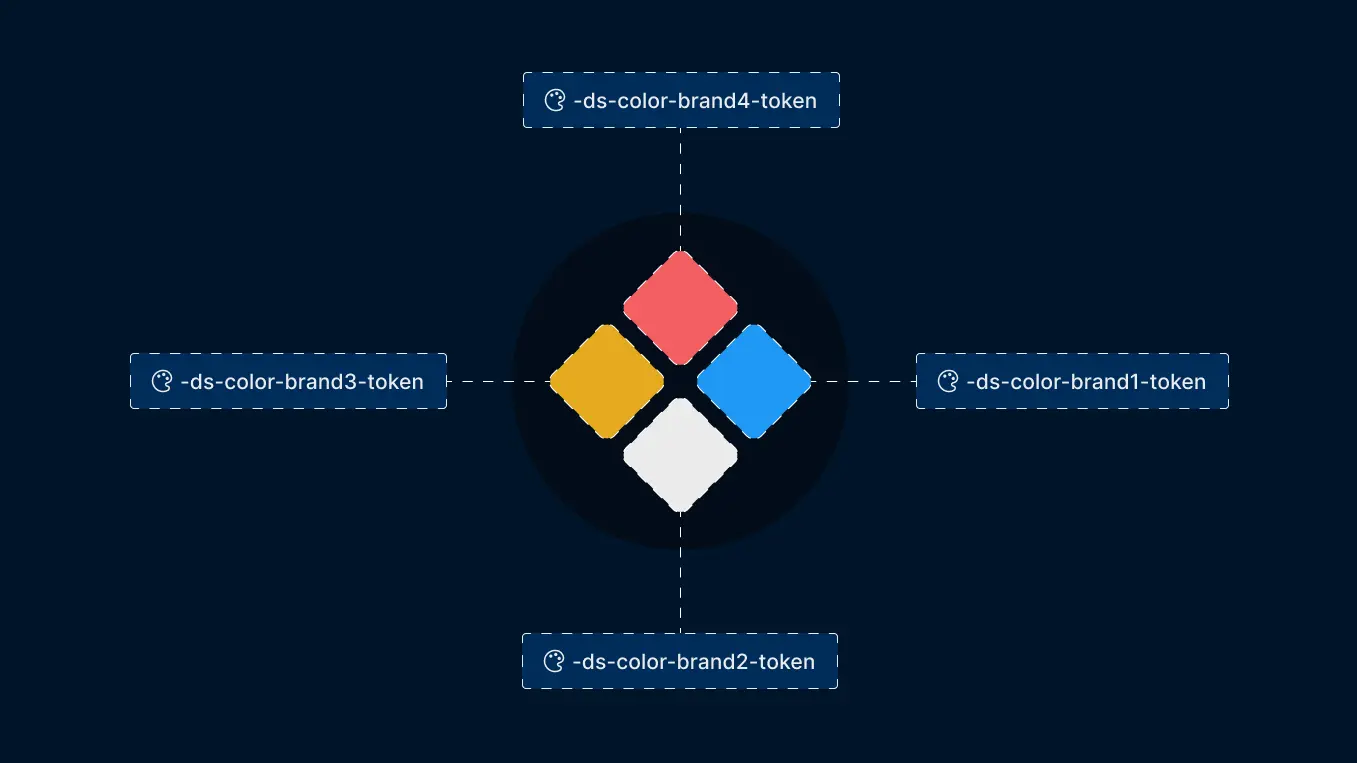
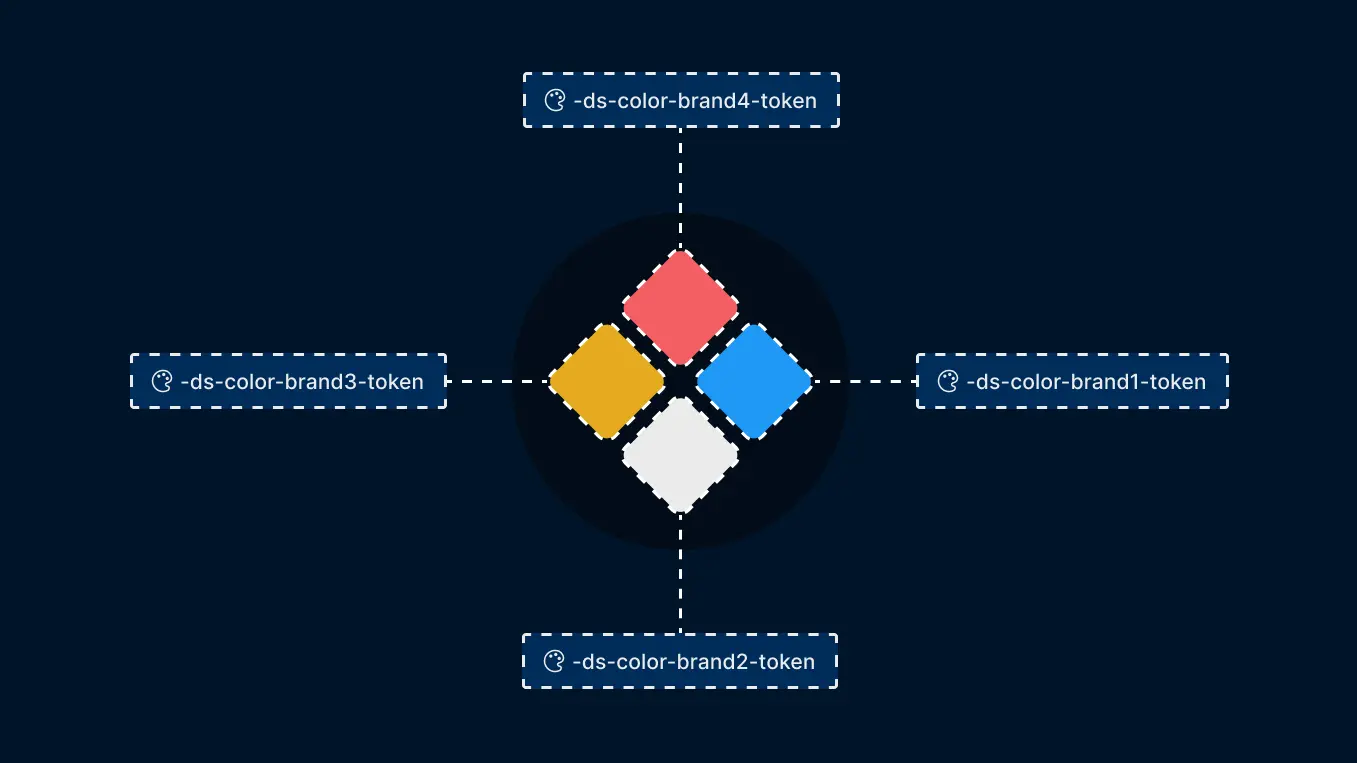
Added example for using data-color

diff --git a/apps/www/app/content/blog/no/colorsvg.stories.tsx b/apps/www/app/content/blog/no/colorsvg.stories.tsx
@@ -1,3 +1,4 @@
+import { Card } from '@digdir/designsystemet-react';
 export const WithCurrentColor = () => {
   return (
     <svg
@@ -15,6 +16,55 @@ export const WithCurrentColor = () => {
         d='M6.29369 2.47455C7.27231 1.63573 8.70223 1.58915 9.73337 2.3625L10.0841 2.62552C11.3043 2.08754 12.6955 2.08754 13.9157 2.62552L14.1622 2.44065C15.257 1.61953 16.7891 1.72841 17.7568 2.69611L17.8996 2.83897C19.0388 3.97817 18.9524 5.83446 17.7499 6.86725V7.26383C17.7499 8.4908 17.3748 9.66074 16.7092 10.6368L16.9037 10.5287C17.9442 9.95065 19.2556 10.3018 19.8679 11.3224C20.5099 12.3923 20.1379 13.7812 19.0473 14.3871L18.3705 14.7631C18.7948 14.8976 19.1941 15.1332 19.5306 15.4697C20.6519 16.591 20.6519 18.409 19.5306 19.5303L18.5306 20.5303C17.4092 21.6516 15.5912 21.6516 14.4699 20.5303C14.3822 20.4427 14.3014 20.3507 14.2275 20.2552C13.5509 20.5726 12.7955 20.75 12 20.75C11.2046 20.75 10.4494 20.5727 9.77287 20.2554C9.69894 20.3508 9.61817 20.4427 9.53056 20.5303C8.40924 21.6516 6.59122 21.6516 5.4699 20.5303L4.4699 19.5303C3.34857 18.409 3.34858 16.591 4.4699 15.4697C4.80626 15.1333 5.2053 14.8978 5.62942 14.7633L4.95231 14.3871C3.86165 13.7812 3.48975 12.3923 4.13166 11.3224C4.74403 10.3018 6.05543 9.95065 7.09589 10.5287L7.29074 10.6369C6.62505 9.66087 6.24989 8.49087 6.24989 7.26383V6.90686C4.86826 5.86881 4.76888 3.78153 6.11862 2.62461L6.29369 2.47455ZM15.5306 17.5303L16.5306 16.5303C17.0661 15.9948 17.9344 15.9948 18.4699 16.5303C19.0054 17.0658 19.0054 17.9341 18.4699 18.4697L17.4699 19.4697C16.9344 20.0052 16.0661 20.0052 15.5306 19.4697C15.0438 18.9829 14.9995 18.2212 15.3976 17.6844C15.4375 17.6306 15.4818 17.5791 15.5306 17.5303ZM15.7203 15.025C15.7289 15.0929 15.7356 15.1615 15.7405 15.2307C15.6583 15.2946 15.5788 15.3636 15.5024 15.4377L15.4867 15.453L15.4699 15.4697L14.4699 16.4697C14.3303 16.6093 14.2081 16.7597 14.1033 16.9181C13.7167 17.5026 13.5664 18.1973 13.6524 18.8675C13.1543 19.1124 12.5939 19.25 12 19.25C11.4063 19.25 10.846 19.1125 10.348 18.8677C10.4438 18.1223 10.2471 17.3465 9.7582 16.7258C9.68831 16.6371 9.61243 16.5515 9.53056 16.4697L8.53056 15.4697C8.44414 15.3832 8.35357 15.3035 8.25951 15.2304C8.2644 15.1613 8.27115 15.0929 8.27971 15.0251C8.32499 14.6661 8.10752 14.326 7.76269 14.2164C7.71876 14.2025 7.67509 14.1838 7.6322 14.16L5.68078 13.0759C5.33141 12.8818 5.21228 12.4369 5.4179 12.0942C5.61406 11.7672 6.03413 11.6548 6.36742 11.8399L8.31884 12.924C8.33846 12.9349 8.3572 12.9465 8.37509 12.9587C8.6744 13.1626 9.07666 13.1235 9.33108 12.8657C9.51476 12.6797 9.71766 12.5127 9.93647 12.3682C10.151 12.2265 10.278 11.9847 10.273 11.7277C10.2679 11.4706 10.1315 11.234 9.91156 11.1008C8.57722 10.293 7.74989 8.84116 7.74989 7.26383V6.4999C7.74989 6.23645 7.61167 5.99232 7.38576 5.85678L7.26518 5.78443C6.53357 5.34546 6.44701 4.31875 7.09481 3.76349L7.26988 3.61343C7.7147 3.23215 8.36467 3.21098 8.83337 3.56251L9.54989 4.0999C9.77715 4.27035 10.0812 4.29776 10.3353 4.17072L10.5464 4.06515C11.4614 3.60766 12.5384 3.60766 13.4533 4.06515L13.6645 4.17072C13.9186 4.29776 14.2226 4.27035 14.4499 4.0999L15.0622 3.64065C15.5599 3.26742 16.2562 3.3169 16.6961 3.75677L16.839 3.89963C17.3768 4.43751 17.3136 5.3271 16.7051 5.78351L16.5499 5.8999C16.361 6.04154 16.2499 6.26383 16.2499 6.4999V7.26383C16.2499 8.84112 15.4226 10.2929 14.0883 11.1008C13.8684 11.2339 13.732 11.4705 13.7269 11.7276C13.7219 11.9847 13.8489 12.2264 14.0634 12.3682C14.2822 12.5127 14.4851 12.6795 14.6688 12.8656C14.9232 13.1233 15.3253 13.1624 15.6246 12.9586C15.6425 12.9465 15.6612 12.9349 15.6808 12.924L17.6322 11.8399C17.9655 11.6548 18.3855 11.7672 18.5817 12.0942C18.7873 12.4369 18.6682 12.8818 18.3188 13.0758L16.3674 14.16C16.3246 14.1838 16.281 14.2024 16.2371 14.2163C15.8924 14.326 15.675 14.666 15.7203 15.025ZM5.53056 16.5303C6.06609 15.9948 6.93436 15.9948 7.4699 16.5303L8.4699 17.5303C8.53934 17.5998 8.59982 17.6748 8.65129 17.7541C8.99643 18.2855 8.93596 19.0036 8.4699 19.4697C7.93436 20.0052 7.06609 20.0052 6.53056 19.4697L5.53056 18.4697C4.99502 17.9341 4.99502 17.0658 5.53056 16.5303ZM10.5 6.75C10.0858 6.75 9.75 7.08579 9.75 7.5C9.75 7.91421 10.0858 8.25 10.5 8.25H10.51C10.9242 8.25 11.26 7.91421 11.26 7.5C11.26 7.08579 10.9242 6.75 10.51 6.75H10.5ZM10.9697 8.96967C11.2527 8.68668 11.7055 8.67711 12 8.94096C12.2945 8.67711 12.7473 8.68668 13.0303 8.96967C13.3232 9.26256 13.3232 9.73744 13.0303 10.0303L12.5303 10.5303C12.2374 10.8232 11.7626 10.8232 11.4697 10.5303L10.9697 10.0303C10.6768 9.73744 10.6768 9.26256 10.9697 8.96967ZM12.75 7.5C12.75 7.08579 13.0858 6.75 13.5 6.75H13.51C13.9242 6.75 14.26 7.08579 14.26 7.5C14.26 7.91421 13.9242 8.25 13.51 8.25H13.5C13.0858 8.25 12.75 7.91421 12.75 7.5Z'
       />
     </svg>
+  );
+};
+
+export const WithDataColor = () => {
+  return (
+    <div>
+      <Card
+        data-color='success'
+        data-color-scheme='dark'>
+        <Card.Block>
+        <svg
+          width='64'
+          height='64'
+          viewBox='0 0 24 24'
+          fill='none'
+          xmlns='http://www.w3.org/2000/svg'
+          aria-hidden='true'
+        >
+          <path
+            fill='var(--ds-color-base-default)'
+            fill-rule='evenodd'
+            clip-rule='evenodd'
+            d='M6.29369 2.47455C7.27231 1.63573 8.70223 1.58915 9.73337 2.3625L10.0841 2.62552C11.3043 2.08754 12.6955 2.08754 13.9157 2.62552L14.1622 2.44065C15.257 1.61953 16.7891 1.72841 17.7568 2.69611L17.8996 2.83897C19.0388 3.97817 18.9524 5.83446 17.7499 6.86725V7.26383C17.7499 8.4908 17.3748 9.66074 16.7092 10.6368L16.9037 10.5287C17.9442 9.95065 19.2556 10.3018 19.8679 11.3224C20.5099 12.3923 20.1379 13.7812 19.0473 14.3871L18.3705 14.7631C18.7948 14.8976 19.1941 15.1332 19.5306 15.4697C20.6519 16.591 20.6519 18.409 19.5306 19.5303L18.5306 20.5303C17.4092 21.6516 15.5912 21.6516 14.4699 20.5303C14.3822 20.4427 14.3014 20.3507 14.2275 20.2552C13.5509 20.5726 12.7955 20.75 12 20.75C11.2046 20.75 10.4494 20.5727 9.77287 20.2554C9.69894 20.3508 9.61817 20.4427 9.53056 20.5303C8.40924 21.6516 6.59122 21.6516 5.4699 20.5303L4.4699 19.5303C3.34857 18.409 3.34858 16.591 4.4699 15.4697C4.80626 15.1333 5.2053 14.8978 5.62942 14.7633L4.95231 14.3871C3.86165 13.7812 3.48975 12.3923 4.13166 11.3224C4.74403 10.3018 6.05543 9.95065 7.09589 10.5287L7.29074 10.6369C6.62505 9.66087 6.24989 8.49087 6.24989 7.26383V6.90686C4.86826 5.86881 4.76888 3.78153 6.11862 2.62461L6.29369 2.47455ZM15.5306 17.5303L16.5306 16.5303C17.0661 15.9948 17.9344 15.9948 18.4699 16.5303C19.0054 17.0658 19.0054 17.9341 18.4699 18.4697L17.4699 19.4697C16.9344 20.0052 16.0661 20.0052 15.5306 19.4697C15.0438 18.9829 14.9995 18.2212 15.3976 17.6844C15.4375 17.6306 15.4818 17.5791 15.5306 17.5303ZM15.7203 15.025C15.7289 15.0929 15.7356 15.1615 15.7405 15.2307C15.6583 15.2946 15.5788 15.3636 15.5024 15.4377L15.4867 15.453L15.4699 15.4697L14.4699 16.4697C14.3303 16.6093 14.2081 16.7597 14.1033 16.9181C13.7167 17.5026 13.5664 18.1973 13.6524 18.8675C13.1543 19.1124 12.5939 19.25 12 19.25C11.4063 19.25 10.846 19.1125 10.348 18.8677C10.4438 18.1223 10.2471 17.3465 9.7582 16.7258C9.68831 16.6371 9.61243 16.5515 9.53056 16.4697L8.53056 15.4697C8.44414 15.3832 8.35357 15.3035 8.25951 15.2304C8.2644 15.1613 8.27115 15.0929 8.27971 15.0251C8.32499 14.6661 8.10752 14.326 7.76269 14.2164C7.71876 14.2025 7.67509 14.1838 7.6322 14.16L5.68078 13.0759C5.33141 12.8818 5.21228 12.4369 5.4179 12.0942C5.61406 11.7672 6.03413 11.6548 6.36742 11.8399L8.31884 12.924C8.33846 12.9349 8.3572 12.9465 8.37509 12.9587C8.6744 13.1626 9.07666 13.1235 9.33108 12.8657C9.51476 12.6797 9.71766 12.5127 9.93647 12.3682C10.151 12.2265 10.278 11.9847 10.273 11.7277C10.2679 11.4706 10.1315 11.234 9.91156 11.1008C8.57722 10.293 7.74989 8.84116 7.74989 7.26383V6.4999C7.74989 6.23645 7.61167 5.99232 7.38576 5.85678L7.26518 5.78443C6.53357 5.34546 6.44701 4.31875 7.09481 3.76349L7.26988 3.61343C7.7147 3.23215 8.36467 3.21098 8.83337 3.56251L9.54989 4.0999C9.77715 4.27035 10.0812 4.29776 10.3353 4.17072L10.5464 4.06515C11.4614 3.60766 12.5384 3.60766 13.4533 4.06515L13.6645 4.17072C13.9186 4.29776 14.2226 4.27035 14.4499 4.0999L15.0622 3.64065C15.5599 3.26742 16.2562 3.3169 16.6961 3.75677L16.839 3.89963C17.3768 4.43751 17.3136 5.3271 16.7051 5.78351L16.5499 5.8999C16.361 6.04154 16.2499 6.26383 16.2499 6.4999V7.26383C16.2499 8.84112 15.4226 10.2929 14.0883 11.1008C13.8684 11.2339 13.732 11.4705 13.7269 11.7276C13.7219 11.9847 13.8489 12.2264 14.0634 12.3682C14.2822 12.5127 14.4851 12.6795 14.6688 12.8656C14.9232 13.1233 15.3253 13.1624 15.6246 12.9586C15.6425 12.9465 15.6612 12.9349 15.6808 12.924L17.6322 11.8399C17.9655 11.6548 18.3855 11.7672 18.5817 12.0942C18.7873 12.4369 18.6682 12.8818 18.3188 13.0758L16.3674 14.16C16.3246 14.1838 16.281 14.2024 16.2371 14.2163C15.8924 14.326 15.675 14.666 15.7203 15.025ZM5.53056 16.5303C6.06609 15.9948 6.93436 15.9948 7.4699 16.5303L8.4699 17.5303C8.53934 17.5998 8.59982 17.6748 8.65129 17.7541C8.99643 18.2855 8.93596 19.0036 8.4699 19.4697C7.93436 20.0052 7.06609 20.0052 6.53056 19.4697L5.53056 18.4697C4.99502 17.9341 4.99502 17.0658 5.53056 16.5303ZM10.5 6.75C10.0858 6.75 9.75 7.08579 9.75 7.5C9.75 7.91421 10.0858 8.25 10.5 8.25H10.51C10.9242 8.25 11.26 7.91421 11.26 7.5C11.26 7.08579 10.9242 6.75 10.51 6.75H10.5ZM10.9697 8.96967C11.2527 8.68668 11.7055 8.67711 12 8.94096C12.2945 8.67711 12.7473 8.68668 13.0303 8.96967C13.3232 9.26256 13.3232 9.73744 13.0303 10.0303L12.5303 10.5303C12.2374 10.8232 11.7626 10.8232 11.4697 10.5303L10.9697 10.0303C10.6768 9.73744 10.6768 9.26256 10.9697 8.96967ZM12.75 7.5C12.75 7.08579 13.0858 6.75 13.5 6.75H13.51C13.9242 6.75 14.26 7.08579 14.26 7.5C14.26 7.91421 13.9242 8.25 13.51 8.25H13.5C13.0858 8.25 12.75 7.91421 12.75 7.5Z'
+          />
+        </svg>
+        </Card.Block>
+      </Card>
+      <Card
+        data-color='warning'
+        data-color-scheme='light'>
+        <Card.Block>
+        <svg
+          width='64'
+          height='64'
+          viewBox='0 0 24 24'
+          fill='none'
+          xmlns='http://www.w3.org/2000/svg'
+          aria-hidden='true'
+        >
+          <path
+            fill='var(--ds-color-base-default)'
+            fill-rule='evenodd'
+            clip-rule='evenodd'
+            d='M6.29369 2.47455C7.27231 1.63573 8.70223 1.58915 9.73337 2.3625L10.0841 2.62552C11.3043 2.08754 12.6955 2.08754 13.9157 2.62552L14.1622 2.44065C15.257 1.61953 16.7891 1.72841 17.7568 2.69611L17.8996 2.83897C19.0388 3.97817 18.9524 5.83446 17.7499 6.86725V7.26383C17.7499 8.4908 17.3748 9.66074 16.7092 10.6368L16.9037 10.5287C17.9442 9.95065 19.2556 10.3018 19.8679 11.3224C20.5099 12.3923 20.1379 13.7812 19.0473 14.3871L18.3705 14.7631C18.7948 14.8976 19.1941 15.1332 19.5306 15.4697C20.6519 16.591 20.6519 18.409 19.5306 19.5303L18.5306 20.5303C17.4092 21.6516 15.5912 21.6516 14.4699 20.5303C14.3822 20.4427 14.3014 20.3507 14.2275 20.2552C13.5509 20.5726 12.7955 20.75 12 20.75C11.2046 20.75 10.4494 20.5727 9.77287 20.2554C9.69894 20.3508 9.61817 20.4427 9.53056 20.5303C8.40924 21.6516 6.59122 21.6516 5.4699 20.5303L4.4699 19.5303C3.34857 18.409 3.34858 16.591 4.4699 15.4697C4.80626 15.1333 5.2053 14.8978 5.62942 14.7633L4.95231 14.3871C3.86165 13.7812 3.48975 12.3923 4.13166 11.3224C4.74403 10.3018 6.05543 9.95065 7.09589 10.5287L7.29074 10.6369C6.62505 9.66087 6.24989 8.49087 6.24989 7.26383V6.90686C4.86826 5.86881 4.76888 3.78153 6.11862 2.62461L6.29369 2.47455ZM15.5306 17.5303L16.5306 16.5303C17.0661 15.9948 17.9344 15.9948 18.4699 16.5303C19.0054 17.0658 19.0054 17.9341 18.4699 18.4697L17.4699 19.4697C16.9344 20.0052 16.0661 20.0052 15.5306 19.4697C15.0438 18.9829 14.9995 18.2212 15.3976 17.6844C15.4375 17.6306 15.4818 17.5791 15.5306 17.5303ZM15.7203 15.025C15.7289 15.0929 15.7356 15.1615 15.7405 15.2307C15.6583 15.2946 15.5788 15.3636 15.5024 15.4377L15.4867 15.453L15.4699 15.4697L14.4699 16.4697C14.3303 16.6093 14.2081 16.7597 14.1033 16.9181C13.7167 17.5026 13.5664 18.1973 13.6524 18.8675C13.1543 19.1124 12.5939 19.25 12 19.25C11.4063 19.25 10.846 19.1125 10.348 18.8677C10.4438 18.1223 10.2471 17.3465 9.7582 16.7258C9.68831 16.6371 9.61243 16.5515 9.53056 16.4697L8.53056 15.4697C8.44414 15.3832 8.35357 15.3035 8.25951 15.2304C8.2644 15.1613 8.27115 15.0929 8.27971 15.0251C8.32499 14.6661 8.10752 14.326 7.76269 14.2164C7.71876 14.2025 7.67509 14.1838 7.6322 14.16L5.68078 13.0759C5.33141 12.8818 5.21228 12.4369 5.4179 12.0942C5.61406 11.7672 6.03413 11.6548 6.36742 11.8399L8.31884 12.924C8.33846 12.9349 8.3572 12.9465 8.37509 12.9587C8.6744 13.1626 9.07666 13.1235 9.33108 12.8657C9.51476 12.6797 9.71766 12.5127 9.93647 12.3682C10.151 12.2265 10.278 11.9847 10.273 11.7277C10.2679 11.4706 10.1315 11.234 9.91156 11.1008C8.57722 10.293 7.74989 8.84116 7.74989 7.26383V6.4999C7.74989 6.23645 7.61167 5.99232 7.38576 5.85678L7.26518 5.78443C6.53357 5.34546 6.44701 4.31875 7.09481 3.76349L7.26988 3.61343C7.7147 3.23215 8.36467 3.21098 8.83337 3.56251L9.54989 4.0999C9.77715 4.27035 10.0812 4.29776 10.3353 4.17072L10.5464 4.06515C11.4614 3.60766 12.5384 3.60766 13.4533 4.06515L13.6645 4.17072C13.9186 4.29776 14.2226 4.27035 14.4499 4.0999L15.0622 3.64065C15.5599 3.26742 16.2562 3.3169 16.6961 3.75677L16.839 3.89963C17.3768 4.43751 17.3136 5.3271 16.7051 5.78351L16.5499 5.8999C16.361 6.04154 16.2499 6.26383 16.2499 6.4999V7.26383C16.2499 8.84112 15.4226 10.2929 14.0883 11.1008C13.8684 11.2339 13.732 11.4705 13.7269 11.7276C13.7219 11.9847 13.8489 12.2264 14.0634 12.3682C14.2822 12.5127 14.4851 12.6795 14.6688 12.8656C14.9232 13.1233 15.3253 13.1624 15.6246 12.9586C15.6425 12.9465 15.6612 12.9349 15.6808 12.924L17.6322 11.8399C17.9655 11.6548 18.3855 11.7672 18.5817 12.0942C18.7873 12.4369 18.6682 12.8818 18.3188 13.0758L16.3674 14.16C16.3246 14.1838 16.281 14.2024 16.2371 14.2163C15.8924 14.326 15.675 14.666 15.7203 15.025ZM5.53056 16.5303C6.06609 15.9948 6.93436 15.9948 7.4699 16.5303L8.4699 17.5303C8.53934 17.5998 8.59982 17.6748 8.65129 17.7541C8.99643 18.2855 8.93596 19.0036 8.4699 19.4697C7.93436 20.0052 7.06609 20.0052 6.53056 19.4697L5.53056 18.4697C4.99502 17.9341 4.99502 17.0658 5.53056 16.5303ZM10.5 6.75C10.0858 6.75 9.75 7.08579 9.75 7.5C9.75 7.91421 10.0858 8.25 10.5 8.25H10.51C10.9242 8.25 11.26 7.91421 11.26 7.5C11.26 7.08579 10.9242 6.75 10.51 6.75H10.5ZM10.9697 8.96967C11.2527 8.68668 11.7055 8.67711 12 8.94096C12.2945 8.67711 12.7473 8.68668 13.0303 8.96967C13.3232 9.26256 13.3232 9.73744 13.0303 10.0303L12.5303 10.5303C12.2374 10.8232 11.7626 10.8232 11.4697 10.5303L10.9697 10.0303C10.6768 9.73744 10.6768 9.26256 10.9697 8.96967ZM12.75 7.5C12.75 7.08579 13.0858 6.75 13.5 6.75H13.51C13.9242 6.75 14.26 7.08579 14.26 7.5C14.26 7.91421 13.9242 8.25 13.51 8.25H13.5C13.0858 8.25 12.75 7.91421 12.75 7.5Z'
+          />
+        </svg>
+        </Card.Block>
+      </Card>
+    </div>
   );
 };
 
